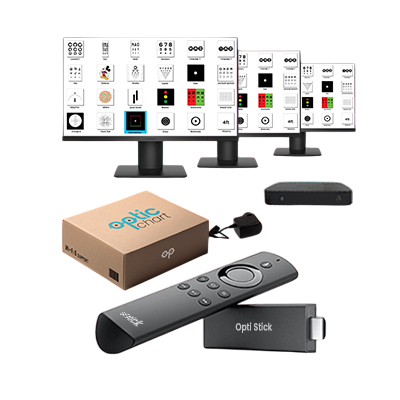
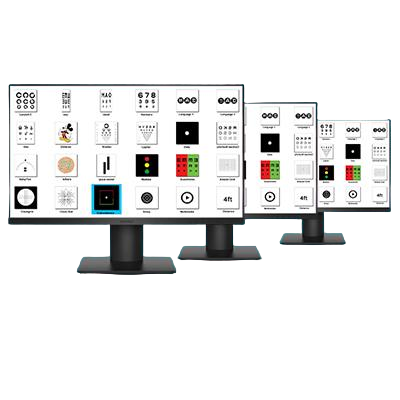
Updated the home page with the new image and created the new hero section slide

diff --git a/index.php b/index.php
@@ -28,9 +28,9 @@
    .display-tv {
 
       position: absolute;
-    width: 490px;
-    height: 95%;
-    z-index: 2;
+      width: 490px;
+      height: 95%;
+      z-index: 2;
 
    }
 
@@ -38,12 +38,12 @@
 
    .display-video {
       position: absolute;
-    width: 63%;
-    height: 67%;
-    top: 23px;
-    left: 85px;
-    object-fit: cover;
-    z-index: 1;
+      width: 63%;
+      height: 67%;
+      top: 23px;
+      left: 85px;
+      object-fit: cover;
+      z-index: 1;
    }
 
 
@@ -233,8 +233,8 @@
 
    }
 
-   @media (max-width: 1200px){
-      .display-video{
+   @media (max-width: 1200px) {
+      .display-video {
          width: 75%;
       }
    }
@@ -337,18 +337,20 @@
       .pad-top {
          padding: 30px 0;
       }
+
       .display-tv {
-      position: absolute;
-      width: 100%;
-      height: 70%;
-      z-index: 2;
-      top: 18%;
+         position: absolute;
+         width: 100%;
+         height: 70%;
+         z-index: 2;
+         top: 18%;
       }
-      .display-video{
+
+      .display-video {
          width: 74%;
          left: 45px;
          height: 47%;
-    top: 84px;
+         top: 84px;
       }
    }
 
@@ -356,7 +358,8 @@
       .minheight {
          min-height: 150px;
       }
-      .display-video{
+
+      .display-video {
          left: 65px;
       }
    }
@@ -364,12 +367,12 @@
 
    @media (max-width: 576px) {
       .display-tv {
-        position: absolute;
-        width: 350px;
-        height: 85%;
-        z-index: 2;
-        top: 18%;
-    }
+         position: absolute;
+         width: 350px;
+         height: 85%;
+         z-index: 2;
+         top: 18%;
+      }
 
       .main-display {
 
@@ -384,7 +387,7 @@
          left: 24px;
          width: 85%;
          height: 57%;
-        top: 55px;
+         top: 55px;
 
       }
 
@@ -456,6 +459,12 @@
 
    .brand-logo {
       padding-left: 15px;
+   }
+   .about-inner-image img{
+      border: 9px solid #51afb7;
+    width: 100%;
+    border-radius: 10px;
+    box-shadow: 0 0 18px 7px #dadada;
    }
 </style>
 
@@ -679,7 +688,7 @@
 
                   data-hoffset="['-45','-45','-45','-35']" data-y="['middle','middle','middle','middle']"
 
-                 data-voffset="['50','70','30','0']" data-width="none" data-height="none"
+                  data-voffset="['50','70','30','0']" data-width="none" data-height="none"
 
                   data-whitespace="nowrap" data-type="text" data-beforeafter="after" data-responsive_offset="on"
 
@@ -755,11 +764,11 @@
 
             <!-- +++++++++++NEW SLIDE++++++++++++++ -->
 
-            <li data-index="rs-966" data-transition="fade" data-slotamount="default" data-hideafterloop="0" data-hideslideonmobile="off" data-easein="default" data-easeout="default" data-masterspeed="default" data-thumb="../../assets/images/night-100x50.jpg" data-rotate="0" data-saveperformance="off" data-title="Slide" data-param1="" data-param2="" data-param3="" data-param4="" data-param5="" data-param6="" data-param7="" data-param8="" data-param9="" data-param10="" data-description="" data-beforeafter='{"moveto":"50%|50%|50%|50%","bgColor":"","bgType":"image","bgImage":"images/slide4.jpg","bgFit":"cover","bgPos":"center center","bgRepeat":"no-repeat","direction":"horizontal","easing":"Power2.easeInOut","delay":"500","time":"750","out":"fade","carousel":false}'>
+            <li data-index="rs-966" data-transition="fade" data-slotamount="default" data-hideafterloop="0" data-hideslideonmobile="off" data-easein="default" data-easeout="default" data-masterspeed="default" data-thumb="../../assets/images/night-100x50.jpg" data-rotate="0" data-saveperformance="off" data-title="Slide" data-param1="" data-param2="" data-param3="" data-param4="" data-param5="" data-param6="" data-param7="" data-param8="" data-param9="" data-param10="" data-description="" data-beforeafter='{"moveto":"50%|50%|50%|50%","bgColor":"","bgType":"image","bgImage":"images/slide4.jpeg","bgFit":"cover","bgPos":"center center","bgRepeat":"no-repeat","direction":"horizontal","easing":"Power2.easeInOut","delay":"500","time":"750","out":"fade","carousel":false}'>
 
                <!-- MAIN IMAGE -->
 
-               <img src="images/slide3.png" alt="" data-bgposition="center center" data-kenburns="on" data-duration="5000" data-ease="Power4.easeOut" data-scalestart="150" data-scaleend="100" data-rotatestart="0" data-rotateend="0" data-blurstart="30" data-blurend="0" data-offsetstart="0 0" data-offsetend="0 0" data-bgparallax="off" class="rev-slidebg" data-no-retina="">
+               <img src="images/slide3.jpeg" alt="" data-bgposition="center center" data-kenburns="on" data-duration="5000" data-ease="Power4.easeOut" data-scalestart="150" data-scaleend="100" data-rotatestart="0" data-rotateend="0" data-blurstart="30" data-blurend="0" data-offsetstart="0 0" data-offsetend="0 0" data-bgparallax="off" class="rev-slidebg" data-no-retina="">
 
                <!-- LAYERS -->
 
@@ -785,7 +794,7 @@
 
                   style="z-index: 7;"><img src="images/tvv.png" alt=""
 
-                    data-ww="['450px','450px','450px','250px']" data-hh="['300px','300px','300px','150px']"
+                     data-ww="['450px','450px','450px','250px']" data-hh="['300px','300px','300px','150px']"
 
                      width="1600" height="1600" data-no-retina=""> </div>
 
@@ -1036,12 +1045,12 @@
             </li>
 
 
-
-            <li data-index="rs-967" data-transition="fade" data-slotamount="default" data-hideafterloop="0" data-hideslideonmobile="off" data-easein="default" data-easeout="default" data-masterspeed="default" data-thumb="../../assets/images/night-100x50.jpg" data-rotate="0" data-saveperformance="off" data-title="Slide" data-param1="" data-param2="" data-param3="" data-param4="" data-param5="" data-param6="" data-param7="" data-param8="" data-param9="" data-param10="" data-description="" data-beforeafter='{"moveto":"50%|50%|50%|50%","bgColor":"","bgType":"image","bgImage":"images/slide6.jpg","bgFit":"cover","bgPos":"center center","bgRepeat":"no-repeat","direction":"horizontal","easing":"Power2.easeInOut","delay":"500","time":"750","out":"fade","carousel":false}'>
+   <!-- +++++++++++++++++ Commenting out for the time being ++++++++++++++++++ -->
+            <!-- <li data-index="rs-967" data-transition="fade" data-slotamount="default" data-hideafterloop="0" data-hideslideonmobile="off" data-easein="default" data-easeout="default" data-masterspeed="default" data-thumb="../../assets/images/night-100x50.jpg" data-rotate="0" data-saveperformance="off" data-title="Slide" data-param1="" data-param2="" data-param3="" data-param4="" data-param5="" data-param6="" data-param7="" data-param8="" data-param9="" data-param10="" data-description="" data-beforeafter='{"moveto":"50%|50%|50%|50%","bgColor":"","bgType":"image","bgImage":"images/slide6.jpg","bgFit":"cover","bgPos":"center center","bgRepeat":"no-repeat","direction":"horizontal","easing":"Power2.easeInOut","delay":"500","time":"750","out":"fade","carousel":false}'> -->
 
                <!-- MAIN IMAGE -->
 
-               <img src="images/slide5.png" alt="" data-bgposition="center center" data-kenburns="on" data-duration="5000" data-ease="Power4.easeOut" data-scalestart="150" data-scaleend="100" data-rotatestart="0" data-rotateend="0" data-blurstart="30" data-blurend="0" data-offsetstart="0 0" data-offsetend="0 0" data-bgparallax="off" class="rev-slidebg" data-no-retina="">
+               <!-- <img src="images/slide5.png" alt="" data-bgposition="center center" data-kenburns="on" data-duration="5000" data-ease="Power4.easeOut" data-scalestart="150" data-scaleend="100" data-rotatestart="0" data-rotateend="0" data-blurstart="30" data-blurend="0" data-offsetstart="0 0" data-offsetend="0 0" data-bgparallax="off" class="rev-slidebg" data-no-retina=""> -->
 
                <!-- LAYERS -->
 
@@ -1097,7 +1106,7 @@
 
                <!-- LAYER NR. 6 -->
 
-               <div class="tp-caption   tp-resizeme  tp-whiteshadow rs-parallaxlevel-5" id="slide-964-layer-1743"
+               <!-- <div class="tp-caption   tp-resizeme  tp-whiteshadow rs-parallaxlevel-5" id="slide-964-layer-1743"
 
                   data-x="['center','center','center','center']" data-hoffset="['0','0','0','0']"
 
@@ -1120,7 +1129,7 @@
                   style="z-index: 10; white-space: nowrap; font-size: 120px; line-height: 120px; font-weight: 400; color: #000000; letter-spacing: 50px;font-family:Montserrat;text-transform:uppercase;">
 
                </div>
-
+ -->
 
 
                <!-- LAYER NR. 7 -->
@@ -1315,7 +1324,7 @@
 
                </div> -->
 
-            </li>
+            <!-- </li> -->
 
 
 
@@ -1353,7 +1362,7 @@
 
             <div class="swiper-wrapper">
 
-            <div class="swiper-slide">
+               <div class="swiper-slide">
 
                   <div class="about-company-slide">
 
@@ -1363,13 +1372,13 @@
 
                            <div class="about-slider-image-section clearfix position-relative">
 
-                              <div class="about-slider-images-section-inner">
+                              <div class="about-slider-images-section-inner about-inner-image">
 
                                  <img src="images/about-4.jpg" alt="about-slider-image" data-slide="animated" data-animate="zoomIn">
 
                               </div>
 
-                              <div class="about-img-gradient-box gradient-bg-pink-purple" data-slide="animated" data-animate="zoomIn"></div>
+                              <!-- <div class="about-img-gradient-box gradient-bg-green-blue" data-slide="animated" data-animate="zoomIn"></div> -->
 
                            </div>
 
@@ -1416,13 +1425,13 @@
 
                            <div class="about-slider-image-section clearfix position-relative">
 
-                              <div class="about-slider-images-section-inner">
+                              <div class="about-slider-images-section-inner about-inner-image">
 
                                  <img src="images/about-1.jpeg" alt="about-slider-image" data-slide="animated" data-animate="zoomIn">
 
                               </div>
 
-                              <div class="about-img-gradient-box gradient-bg-green-blue" data-slide="animated" data-animate="zoomIn"></div>
+                              <!-- <div class="about-img-gradient-box gradient-bg-green-blue" data-slide="animated" data-animate="zoomIn"></div> -->
 
                            </div>
 
@@ -1468,13 +1477,13 @@
 
                            <div class="about-slider-image-section clearfix position-relative">
 
-                              <div class="about-slider-images-section-inner">
+                              <div class="about-slider-images-section-inner about-inner-image">
 
                                  <img src="images/about-2.jpeg" alt="about-slider-image" data-slide="animated" data-animate="zoomIn">
 
                               </div>
 
-                              <div class="about-img-gradient-box gradient-bg-pink-purple" data-slide="animated" data-animate="zoomIn"></div>
+                              <!-- <div class="about-img-gradient-box gradient-bg-green-blue" data-slide="animated" data-animate="zoomIn"></div> -->
 
                            </div>
 
@@ -1520,13 +1529,13 @@
 
                            <div class="about-slider-image-section clearfix position-relative">
 
-                              <div class="about-slider-images-section-inner">
+                              <div class="about-slider-images-section-inner about-inner-image">
 
                                  <img src="images/about-3.jpeg" alt="about-slider-image" data-slide="animated" data-animate="zoomIn">
 
                               </div>
 
-                              <div class="about-img-gradient-box gradient-bg-green-blue" data-slide="animated" data-animate="zoomIn"></div>
+                              <!-- <div class="about-img-gradient-box gradient-bg-green-blue" data-slide="animated" data-animate="zoomIn"></div> -->
 
                            </div>
 
